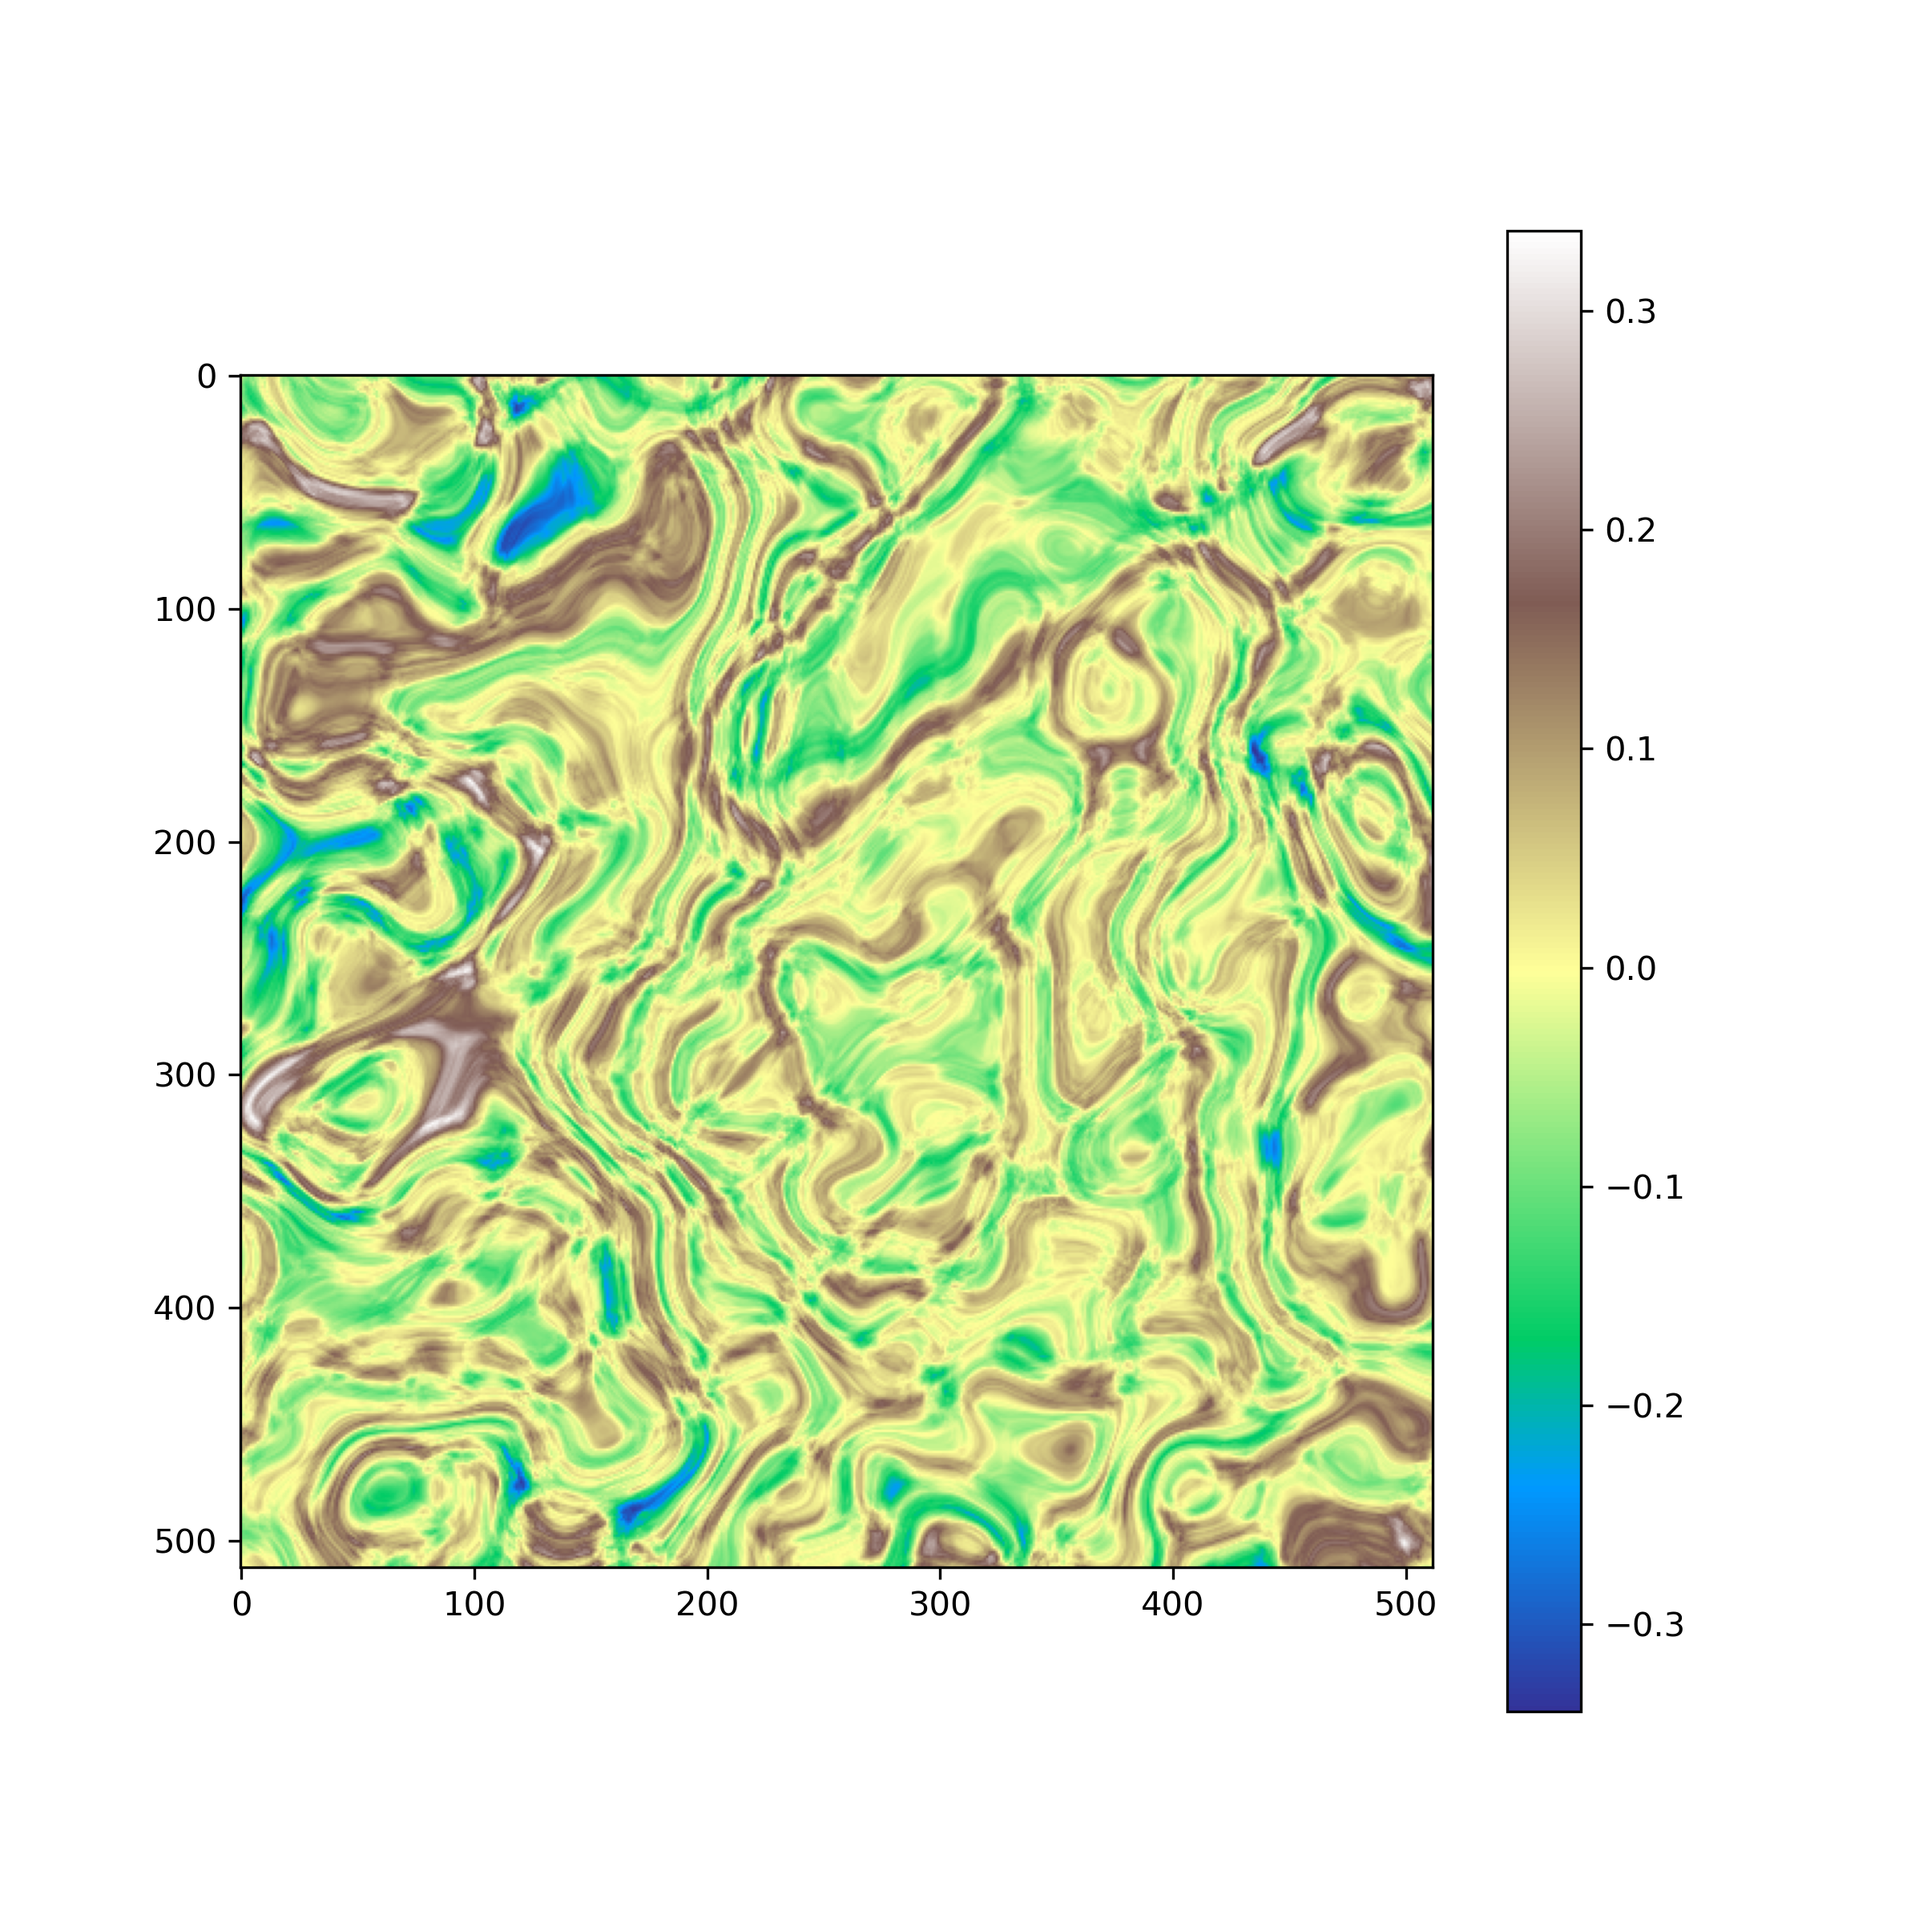
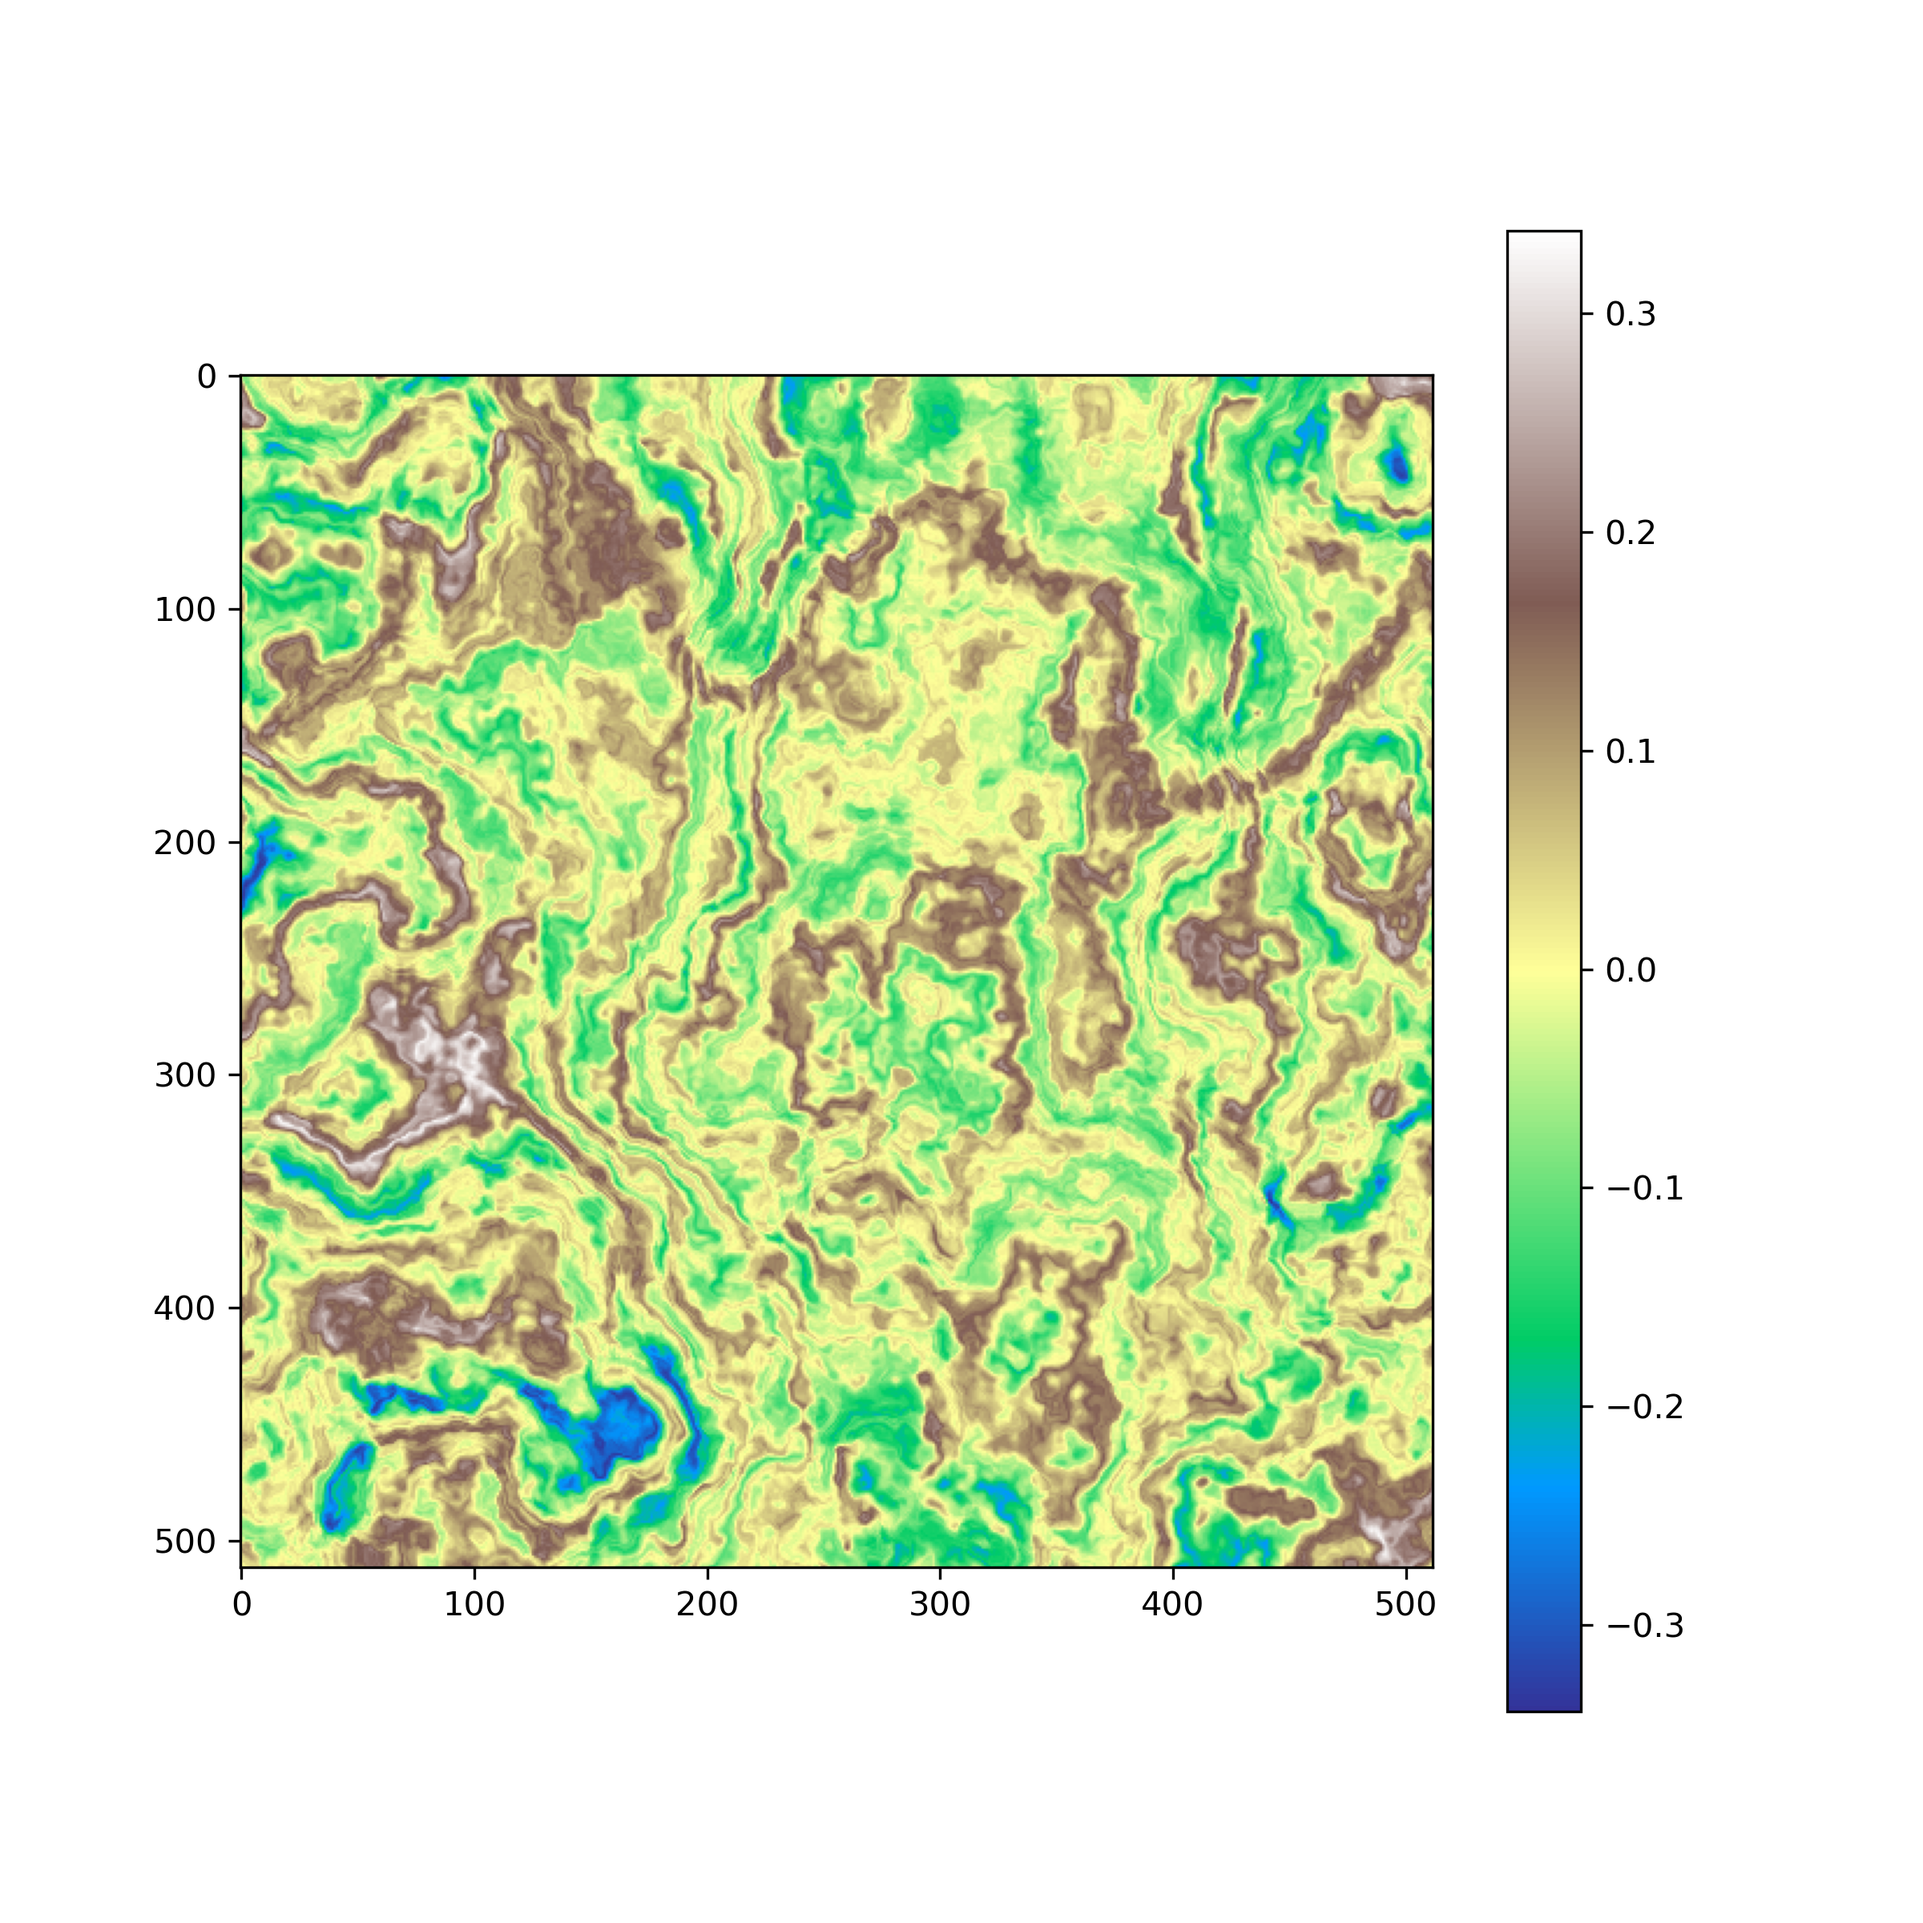
made more examples

diff --git a/terrain.py b/terrain.py
@@ -13,8 +13,8 @@ def create_terrain(rng:np.random.Generator)->np.ndarray:
         for x in range(size):
             nx=x/size
             ny=y/size
-            wx=pnoise2(nx*3,ny*3,octaves=3,base=bases[0])
-            wy=pnoise2(nx*3+5,ny*3+5,octaves=3,base=bases[1])
+            wx=pnoise2(nx*3,ny*3,octaves=6,base=bases[0])
+            wy=pnoise2(nx*3+5,ny*3+5,octaves=6,base=bases[1])
             nx2=nx+0.8*wx
             ny2=ny+0.8*wy
             elevation=pnoise2(nx2*8,ny2*8,octaves=6,base=bases[2])
